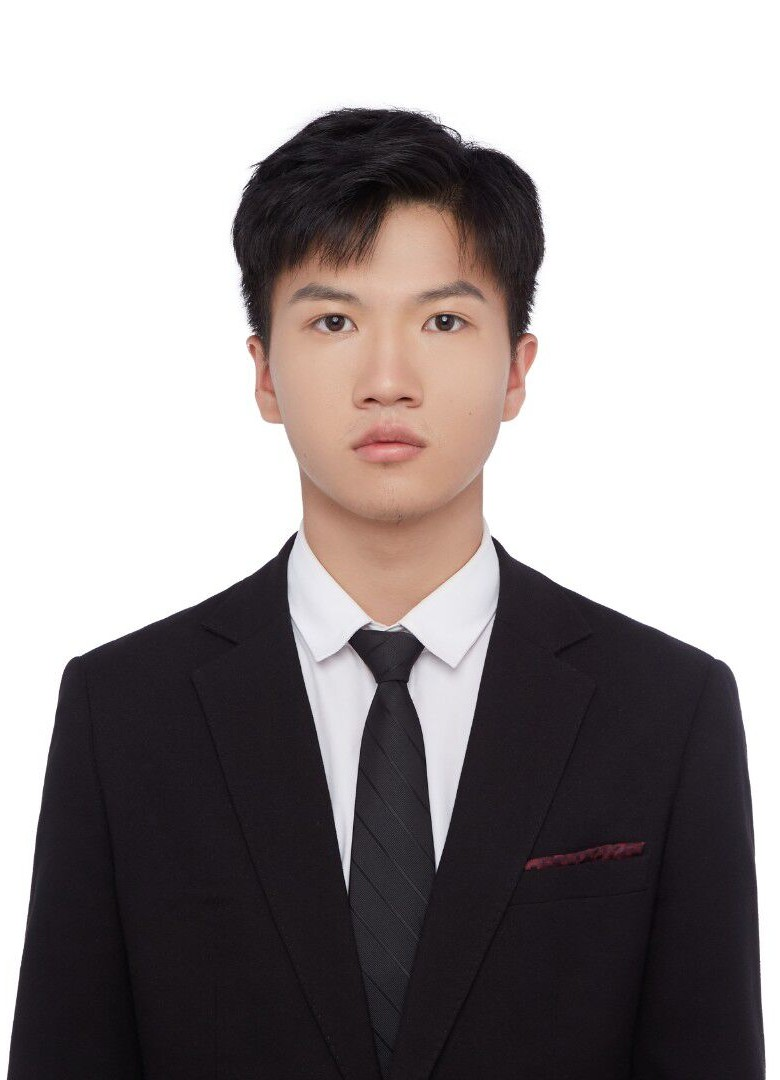
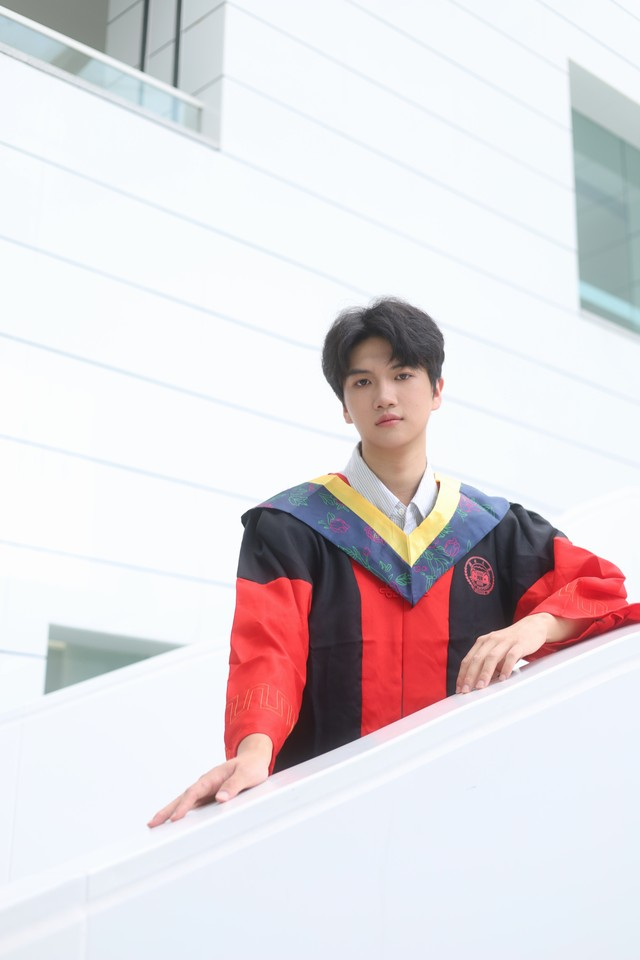
Replace homepage portrait with graduation photo

diff --git a/_pages/about.md b/_pages/about.md
@@ -33,7 +33,7 @@ redirect_from:
         <a href="https://github.com/{{ site.author.github }}">GitHub</a>
       </p>
     </div>
-    <img class="home-portrait" src="{{ '/images/boyaohan.jpg' | relative_url }}" alt="Boyao Han" width="160" height="222">
+    <img class="home-portrait" src="{{ '/images/boyaohan.jpg' | relative_url }}?v=graduation-20260924" alt="Boyao Han" width="160" height="240">
   </header>
 
   <section class="home-section" aria-labelledby="news-heading">
